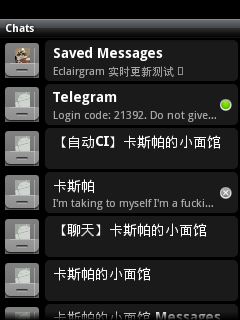
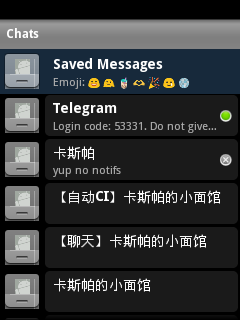
文档：补充应用图标说明并更新过时截图与主题描述
- 开头说明唯一的像素级改动就是应用图标（Eclairgram 纸飞机，替换 Talk 图标）
- 当前进展新增「应用图标」条目（ic_launcher_eclairgram，ldpi/mdpi/hdpi/xhdpi）
- 修正过时描述：主题自适应不再声称“聊天界面恒为白色”，聊天实为跟随列表主题；
  截图说明同步改为“消息区随主题深色”
- docs/ 说明由“协议与截图”改为“协议文档与应用图标”（docs/ 下并无截图）

截图更新（重拍，反映当前界面）：
- ec_android40_dialogs_en.png：紧凑标题栏 + 收藏夹整行底色
- ec_android40_chat_en.png：气泡内联显示图片缩略图（此前仍是 [Photo] 文字）
- ec_android22_dialogs.png（HTC 2.2，DebugShot）：同上

实测（LG-E610 / 4.0.3、HTC Wildfire / 2.2）重拍，非调试版已装回两台设备。

diff --git a/README.en.md b/README.en.md
@@ -10,7 +10,8 @@ The UI comes from [`liangmian`](https://github.com/xiaomianguan/liangmian), a re
 engineering of the Android 2.1 Google Talk client against a private server. The buddy
 list, chat screen, status bar and notifications all reuse the original Talk layouts and
 resources with **no pixel-level changes** — only the party we talk to changed, from Google
-Talk to Telegram.
+Talk to Telegram. The one exception is the **app icon**: Eclairgram uses its own paper-plane
+icon (below) instead of Talk's launcher icon.
 
 <p align="center">
   <img src="docs/icon.png" alt="Eclairgram icon" width="96">
@@ -86,7 +87,7 @@ with `app/single/res` into one resource table at build time (see
 | `certs/telegram/` | Telegram data-center RSA public keys |
 | `certs/roots/` | modern roots (for TLS; pre-4.0 can't install user CAs) |
 | `scripts/` | build, emulator and screenshot scripts |
-| `docs/` | protocol notes and screenshots |
+| `docs/` | protocol notes and the app icon |
 | `shots/` | screenshots (original Google Talk + Eclairgram) |
 
 ## Building
@@ -164,7 +165,7 @@ messages) provide en-US and zh-CN as well.
 - [x] **groups and channels** (peerUser / peerChat / peerChannel can all be opened and messaged)
 - [x] **live updates** (`updates.getDifference`; the chat list refreshes automatically)
 - [x] **UI closer to stock Talk** (bubble roster rows, chat contact header, presence icons)
-- [x] **per-Android-version theming** (light on 2.1 / dark on 2.2+; the chat stays white, like Talk)
+- [x] **per-Android-version theming** (light on 2.1 / dark on 2.2+)
 - [x] **native QuickContactBadge frames** for avatars (Talk's own frame, varies per OS version)
 - [x] **own chat shown as "Saved Messages"** with no status badge; presence only on other users
 - [x] **attachments (photos/videos)**: send via the paperclip button left of the input; received
@@ -189,6 +190,8 @@ messages) provide en-US and zh-CN as well.
       pressed/selected so the system list highlight — which adapts to the Android version — shows)
 - [x] **single app, single launcher icon**: already-signed-in users go straight to the chat list;
       the session persists; no extra setup screen
+- [x] **app icon**: Eclairgram's own icon (a paper plane in a speech bubble) replaces Talk's
+      launcher icon (`ic_launcher_eclairgram`, with ldpi/mdpi/hdpi/xhdpi sizes)
 - [x] **chat folders**: when the account has folders, the top bar becomes a native tab bar
       (TabWidget) to switch between them; otherwise the title bar stays
       (`messages.getDialogFilters` + `messages.getDialogs(folder_id)`)
@@ -207,7 +210,7 @@ Eclairgram on a real device (LG-E610 / Android 4.0.3, real account):
 | Screenshot | Description |
 | --- | --- |
 | [`shots/ec_android40_dialogs_en.png`](shots/ec_android40_dialogs_en.png) | Android 4.0: dark chat list, native frames, user/group/channel photos |
-| [`shots/ec_android40_chat_en.png`](shots/ec_android40_chat_en.png) | Android 4.0: chat (contact header only + white area + bubbles) |
+| [`shots/ec_android40_chat_en.png`](shots/ec_android40_chat_en.png) | Android 4.0: chat (contact header only + bubbles; message area follows the theme) |
 | [`shots/ec_android40_details_en.png`](shots/ec_android40_details_en.png) | Android 4.0: details page opened by tapping the avatar |
 | [`shots/ec_android40_emoji.png`](shots/ec_android40_emoji.png) | Android 4.0: Blobmoji emoji picker, sectioned by category in modern-keyboard order |
 | [`shots/ec_android40_photo_inline.png`](shots/ec_android40_photo_inline.png) | Android 4.0: a photo message with its inline thumbnail |
